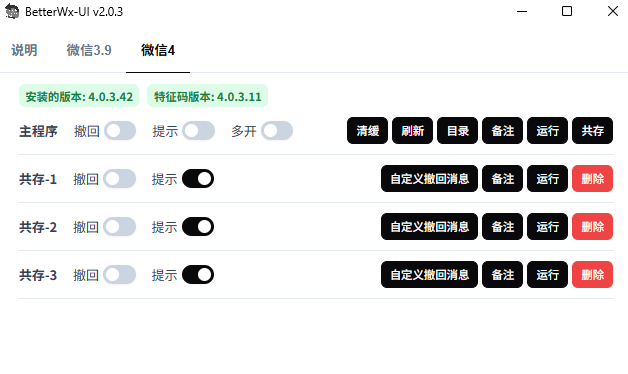
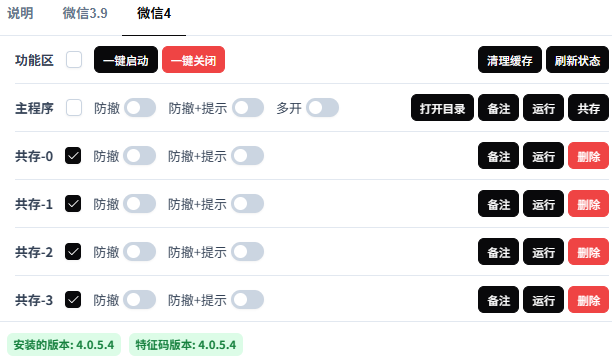
添加批量启动功能、设置单例模式、保存窗口状态、调整部分页面布局

diff --git a/src/components/patch-panel.vue b/src/components/patch-panel.vue
@@ -164,7 +164,11 @@ async function handleEvent(payload) {
         console.log(feature, num, method)
         switch (method) {
             case "refresh":
+                FeatureFileInfo.value = await bridge.buildFeatureFileInfo(baseRule.value)
+                console.log(FeatureFileInfo.value);
                 filesInfo.value = await bridge.refreshFilesInfo(baseRule.value)
+                //加载选中状态
+                await getSelectAll()
                 console.log(filesInfo.value);
                 break
             case "del":

diff --git a/README.md b/README.md
@@ -59,8 +59,21 @@
 
 ## 🔄 批量启动多账号
 
-- [BetterWx-Starter](https://github.com/afaa1991/BetterWx-Starter)
+- 方法1.[BetterWx-Starter](https://github.com/afaa1991/BetterWx-Starter)
+
 - 基于 Rust 的实现的批量启动小玩具 支持自动排序、自动登录
+
+- 方法2.  以下内容保存到 `.bat` 文件，运行。
+
+- 修改“`D:\AppData\Tencent\Weixin`” 为你的微信安装目录。
+
+- `Weixin1.exe` 共存的exe文件名。需要启动哪个，添加哪个。
+
+```bash
+start "" "D:\AppData\Tencent\Weixin\Weixin.exe"
+start "" "D:\AppData\Tencent\Weixin\Weixin1.exe"
+timeout /t 1 /nobreak >nul
+```
 
 ## 💾 下载地址
 
